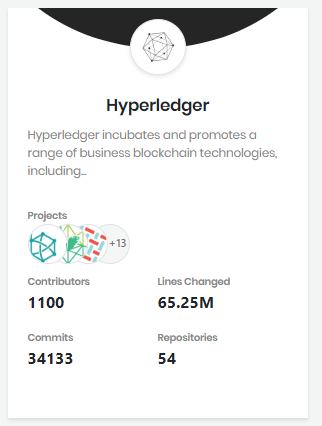
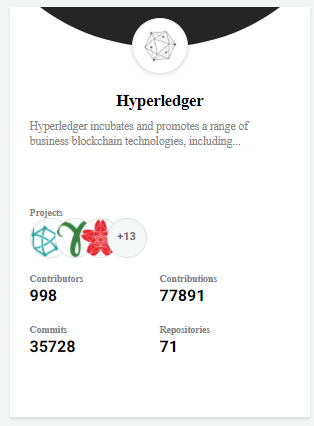
GitBook: [master] 2 pages and 2 assets modified

diff --git a/communitybridge/insights/project-or-foundation-overview.md b/communitybridge/insights/project-or-foundation-overview.md
@@ -5,14 +5,14 @@ CommunityBridge Insights shows project and foundation cards, in alphabetical ord
 **Follow these steps:**
 
 1. Open [https://lfanalytics.io](https://lfanalytics.io/). The Projects page appears and lists the foundations and projects.
-2. Navigate to a project or foundation card:
+2. Navigate to a project or foundation card or type a project/foundation name in the **Search for a project** filed for quick search:
    * [Project Overview](project-or-foundation-overview.md#project-overview)
    * [Foundation Overview](project-or-foundation-overview.md#foundation-overview)
 3. Click a standalone project or a project from foundation level. Dashboards appear based on what data is available for a project.
 4. By default, [Summary](viewing-dashboards/summary.md) dashboard appears. Go to each dashboard. These dashboards are collection of charts and graphs that show you the metrics. The overview dashboards let you monitor many metrics at once, so you can check the health of your projects and see how the contribution is. For overview of individual data sources, see [Viewing Dashboards](viewing-dashboards/).
 5. Use optional actions:
    * [Select Time Range](filtering-data/select-time-range.md)
-   * Eliminate data by clicking the corresponding legend **caption** \(in this example **Contributors\)**. Click the **caption** again to include the data. ![](../../.gitbook/assets/18088257.png) 
+   * Eliminate data by clicking the corresponding legend **caption**. Click the **caption** again to include the data.  ![](../../.gitbook/assets/exclude-data.png)  ![](../../.gitbook/assets/18088257.png) 
    * Mouse over a color in a chart or graph to see details about the item. ![](../../.gitbook/assets/18088255.png)![](../../.gitbook/assets/18088256.png)
 
 ### Project Overview
@@ -26,7 +26,7 @@ Each project card shows the following information:
 * Project name identifies the project by name.
 * Description briefly describes the project. When a project description shows only an excerpt, click the **excerpt** to see the entire description.
 * **Contributors** shows the total number of contributors to the project.
-* **Lines Changed** shows the total number of lines of codes that are changed in the project. It includes lines of code added, modified, and deleted.
+* **Contributions** shows the total number of lines of codes that are changed in the project. It includes lines of code added, modified, and deleted.
 * **Commits** shows the total number of commits to the project.
 * **Repositories** shows the total number of repositories created for the project.
 * **Data Sources** shows the logos of different data sources, such as ![](../../.gitbook/assets/18088261.png) for GitHub and/or Gerrit, ![](../../.gitbook/assets/18088260.png) for Jira, or ![](../../.gitbook/assets/18088259.png) for Slack, and so on.
@@ -43,7 +43,7 @@ Each foundation card shows the following information:
 * Description briefly describes the project. When a project description shows only an excerpt, click the **excerpt** to see the entire description.
 * **Projects** ![](../../.gitbook/assets/18088267.png)shows the logos of projects that come under a foundation.
 * **Contributors** shows the total number of contributors to the project.
-* **Lines Changed** shows the total number of lines of codes that are changed in the project. It includes lines of code added, modified, and deleted.
+* **Contributions** shows the total number of lines of codes that are changed in the project. It includes lines of code added, modified, and deleted.
 * **Commits** shows the total number of commits to the project.
 * **Repositories** shows the total number of repositories created for the project.
 

diff --git a/communitybridge/insights/viewing-dashboards/README.md b/communitybridge/insights/viewing-dashboards/README.md
@@ -2,7 +2,7 @@
 
 Refer to the following catalog of dashboard data to see details. When you navigate to a project's dashboard, by default the **Summary** page appears that displays overview of the project's data sources. 
 
-{% hint style="info" %}
+{% hint style="warning" %}
 The data on the dashboards do not include commits by Bots and empty commits.
 {% endhint %}
 
